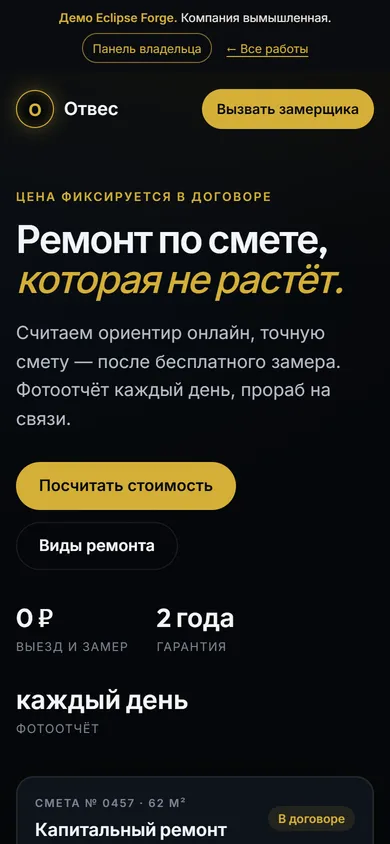
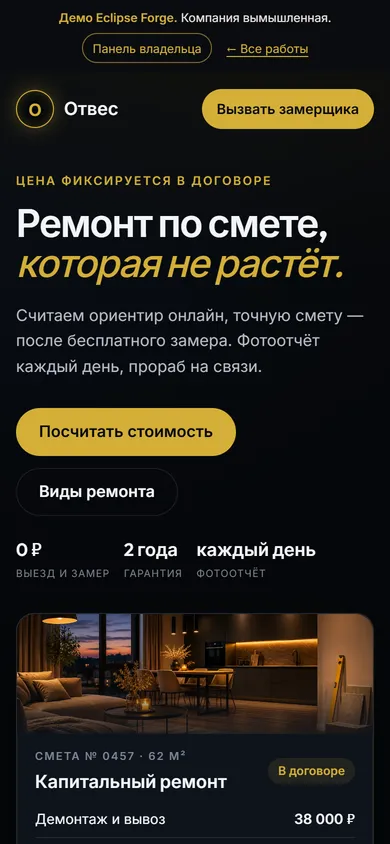
feat(demos): фото из ChatGPT в демо «Дюна», «Отвес», «Северный бокс»
- Три фото сгенерированы в ChatGPT (тёмный кинематографичный стиль с золотом EF,
  без людей, текста и логотипов). Оригиналы — в Генерациях владельца,
  в репозитории только WebP 1200 px (~100–190 КБ); происхождение и промпты —
  public/demos/assets/img/PROVENANCE.md.
- «Дюна»: фото домиков в карточке брони; «Отвес»: фото квартиры в смете и кадры
  фотоотчёта; «Северный бокс»: фото бокса в карточке онлайн-записи.
- На телефоне строка фактов компактнее — фото попадает в первый экран.
- Превью демо в блоке «Работы» пересняты.

Changed region(s): [[0.0308, 0.1848, 0.9846, 1.0], [0.4923, 0.6469, 0.8, 0.6777], [0.7077, 0.955, 0.9231, 0.9858]]

diff --git a/public/demos/renovation/index.html b/public/demos/renovation/index.html
@@ -61,8 +61,9 @@
             <li><b>каждый день</b><span>фотоотчёт</span></li>
           </ul>
         </div>
-        <div class="stack" style="--stack-h:480px;--side-top:40%" role="img" aria-label="Пример интерфейса: смета, фотоотчёт прораба и сообщение в Telegram">
+        <div class="stack" style="--stack-h:565px;--side-top:44%" role="img" aria-label="Пример интерфейса: смета, фотоотчёт прораба и сообщение в Telegram">
           <div class="ui ui--main" aria-hidden="true">
+            <div class="ui-scene ui-scene--photo" style="--photo:url(/demos/assets/img/otves-apartment.webp);--scene-h:120px"></div>
             <div class="ui-row" style="border:0;padding-top:0"><div><p class="ui-label">Смета № 0457 · 62 м²</p><p class="ui-title">Капитальный ремонт</p></div><span class="ui-pill">В договоре</span></div>
             <div class="ui-row"><span>Демонтаж и вывоз</span><b>38 000 ₽</b></div>
             <div class="ui-row"><span>Электрика, 46 точек</span><b>124 000 ₽</b></div>
@@ -73,7 +74,7 @@
           </div>
           <div class="ui ui--side" aria-hidden="true">
             <p class="ui-label">Фотоотчёт · день 12</p>
-            <div class="thumbs"><i></i><i></i><i></i></div>
+            <div class="thumbs thumbs--photo" style="--photo:url(/demos/assets/img/otves-apartment.webp)"><i></i><i></i><i></i></div>
             <div class="ui-row" style="border:0;padding:0"><span class="ui-muted">Готово</span><b>64%</b></div>
             <div class="bar"><i style="width:64%"></i></div>
           </div>

diff --git a/public/demos/guest-house/index.html b/public/demos/guest-house/index.html
@@ -58,9 +58,9 @@
             <li><b>с питомцем</b><span>по договорённости</span></li>
           </ul>
         </div>
-        <div class="stack" style="--stack-h:510px;--side-top:30%" role="img" aria-label="Пример интерфейса: карточка домика, календарь занятости и уведомление о брони">
+        <div class="stack" style="--stack-h:530px;--side-top:30%" role="img" aria-label="Пример интерфейса: карточка домика, календарь занятости и уведомление о брони">
           <div class="ui ui--main" aria-hidden="true">
-            <div class="ui-scene"><span class="house house--1"></span><span class="house house--2"></span><span class="house house--3"></span></div>
+            <div class="ui-scene ui-scene--photo" style="--photo:url(/demos/assets/img/dyuna-cabins.webp);--scene-h:170px"></div>
             <div class="ui-row" style="border:0;padding-top:0"><p class="ui-title">Дом «Маяк»</p><span class="ui-pill ui-pill--ok">Свободно</span></div>
             <p class="ui-muted" style="margin:2px 0 8px">до 6 гостей · сауна · две спальни · парковка</p>
             <div class="ui-row"><span class="ui-muted">23–26 ноября · 3 ночи</span><b>9 500 ₽ × 3</b></div>

diff --git a/public/demos/auto-service/index.html b/public/demos/auto-service/index.html
@@ -59,8 +59,9 @@
             <li><b>6 месяцев</b><span>гарантия на работы</span></li>
           </ul>
         </div>
-        <div class="stack" style="--stack-h:420px;--side-top:34%" role="img" aria-label="Пример интерфейса: онлайн-запись, карточка автомобиля и напоминание">
+        <div class="stack" style="--stack-h:540px;--side-top:42%" role="img" aria-label="Пример интерфейса: онлайн-запись, карточка автомобиля и напоминание">
           <div class="ui ui--main" aria-hidden="true">
+            <div class="ui-scene ui-scene--photo" style="--photo:url(/demos/assets/img/sever-garage.webp);--scene-h:140px"></div>
             <div class="ui-row" style="border:0;padding-top:0"><div><p class="ui-label">Онлайн-запись</p><p class="ui-title">Шиномонтаж · от 1 900 ₽</p></div><span class="ui-pill">4 поста</span></div>
             <div class="day-tabs"><span>вт 17</span><span class="on">ср 18</span><span>чт 19</span></div>
             <div class="mini-slots">

diff --git a/public/demos/assets/demo.css b/public/demos/assets/demo.css
@@ -564,3 +564,31 @@ button, input, select, textarea { font: inherit; color: inherit; }
   .ribbon-short { display: inline; }
   .demo-ribbon button { min-height: 30px; padding: 0 10px; }
 }
+
+/* Generated photos (ChatGPT Images, see assets/img/PROVENANCE.md) */
+.ui-scene--photo {
+  height: var(--scene-h, 150px);
+  background: var(--photo) center / cover no-repeat;
+}
+.ui-scene--photo::after {
+  content: '';
+  position: absolute;
+  inset: 0;
+  background: linear-gradient(180deg, transparent 55%, rgba(14, 19, 27, 0.85));
+}
+.thumbs--photo i:nth-child(n) {
+  background: var(--photo) no-repeat;
+  background-size: 300% auto;
+  background-position: var(--x, 0%) 55%;
+}
+.thumbs--photo i:nth-child(1) { --x: 0%; }
+.thumbs--photo i:nth-child(2) { --x: 50%; }
+.thumbs--photo i:nth-child(3) { --x: 100%; }
+
+@media (max-width: 560px) {
+  .hero { padding-top: 24px; gap: 28px; }
+  .hero p.lead { font-size: 16px; }
+  .facts { gap: 14px; margin-top: 24px; flex-wrap: nowrap; }
+  .facts b { font-size: 18px; }
+  .facts span { font-size: 10px; }
+}

diff --git a/public/demos/assets/img/PROVENANCE.md b/public/demos/assets/img/PROVENANCE.md
@@ -1,0 +1,13 @@
+# Фото демо-сайтов: происхождение
+
+Сгенерированы 16.11.2026 в ChatGPT (встроенная генерация изображений) из аккаунта владельца, чат «Генерация изображения домов». Платные сторонние сервисы не использовались. Оригиналы PNG 1536×1024 лежат в `E:\ADMIN_HOPSON_PC\Загрузки\Генерации\ef-demo-*.png`. В проект попали только WebP-копии (ширина 1200, quality 78, ffmpeg/libwebp). Содержимое картинок вручную не правилось.
+
+| Файл | Где используется | Промпт (кратко) |
+|---|---|---|
+| `dyuna-cabins.webp` | «Дюна»: карточка домика в первом экране | три современных деревянных домика в соснах на балтийских дюнах, сумерки, золотой свет в окнах, терраса с мангалом и гирляндой, полоска моря |
+| `otves-apartment.webp` | «Отвес»: смета и кадры фотоотчёта | отремонтированная гостиная-кухня, тёмные фасады, деревянный пол, золотая подсветка, уровень и коробка плитки у стены |
+| `sever-garage.webp` | «Северный бокс»: карточка онлайн-записи | чистый автосервис вечером, седан без логотипов на подъёмнике, шиномонтажный станок, золотые линейные светильники |
+
+Общие условия промптов: фотореализм, 3:2, тёмный кинематографичный стиль с акцентом тёплого золота #D4AF37, без людей, текста, логотипов, номеров и водяных знаков.
+
+Компании в демо вымышленные; фото не выдаются за реальные объекты.
